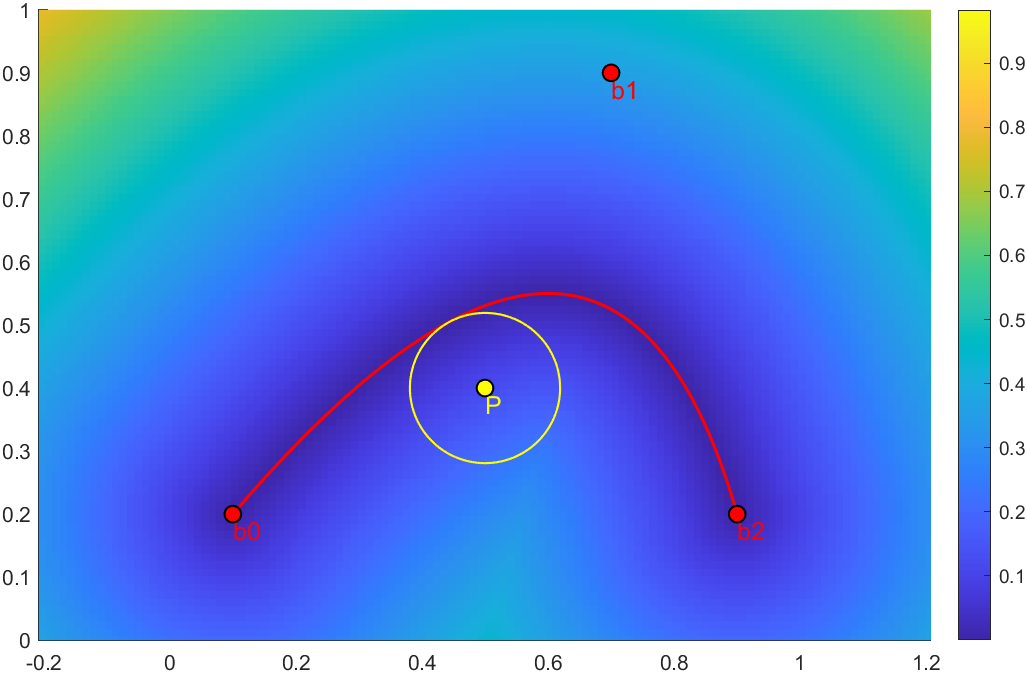
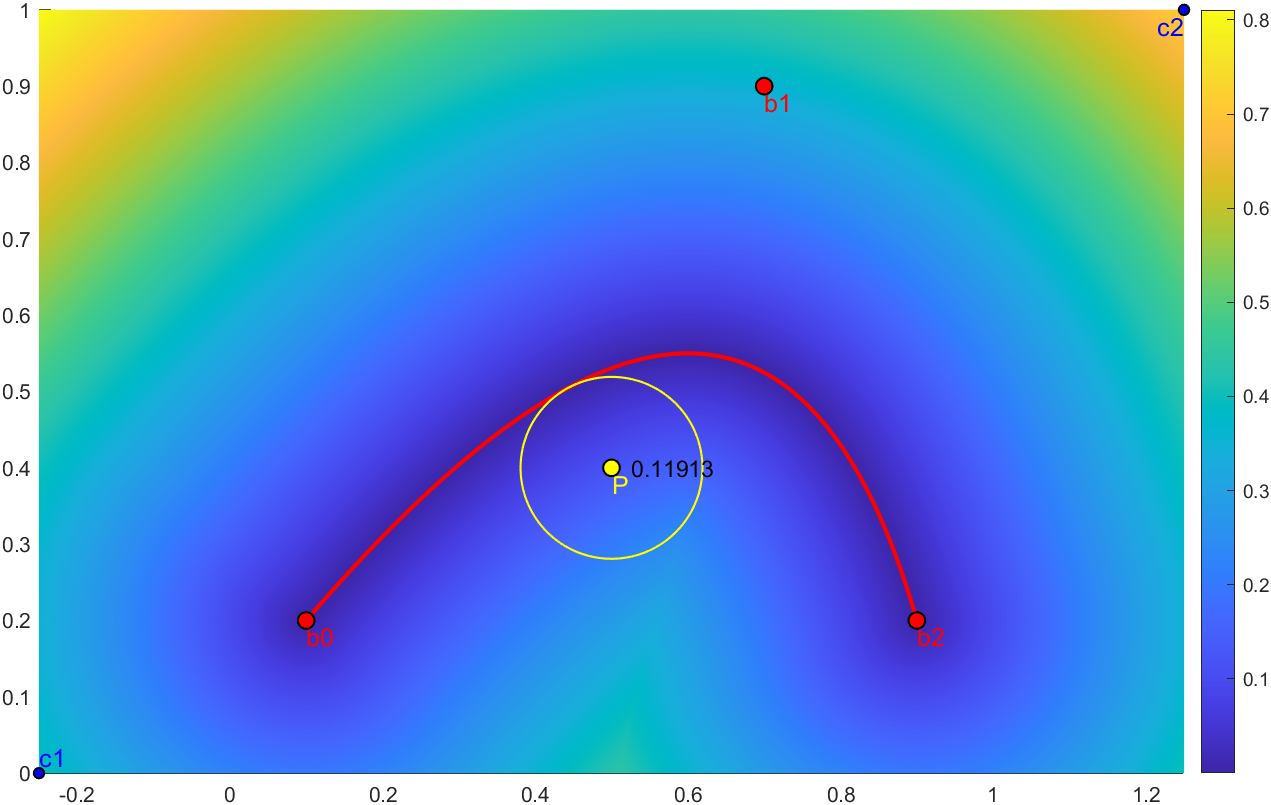
Updated readme

diff --git a/examples/example.m b/examples/example.m
@@ -11,56 +11,61 @@ cd = Segment(C,A,'b',2);
 Segment(A,Midpoint(B,C),'--')
 Segment(B,Midpoint(C,A),'--')
 Segment(C,Midpoint(A,B),'--')
-S=Midpoint('S',A,B,C,'k',7); % Barycenter of the triangle labelled S
+S=Midpoint('S',A,B,C,'k',7);        % Barycenter of the triangle labelled S
 
 PerpendicularBisector(A,B,':')
 PerpendicularBisector(B,C,':')
 PerpendicularBisector(C,A,':')
-[~,K] = Circle(A,B,C,'m--'); % Magenta dashed circumcircle of the triangle
+[~,K] = Circle(A,B,C,'m--');        % Magenta dashed circumcircle of the triangle
+Text(K,"K") % add text at position
 
 la = AngleBisector(A,B,C,':');
 lb = AngleBisector(B,C,A,':');
 lc = AngleBisector(C,A,B,':');
-Circle(Intersect('O',la,lb),ab,'c'); % (inscribed) circle touching segment AB
+Circle(Intersect('O',la,lb),ab,'c');% (inscribed) circle touching segment AB
 
 ma = PerpendicularLine(A,B,C,':');
 mb = PerpendicularLine(B,C,A,':');
 mc = PerpendicularLine(C,A,B,':');
 M = Intersect('M',ma,mb);
-Segment(M,K,'r')
+Segment(M,K,'r')                    % Euler line
 
-ylim([-0.2 0.6]); xlim([-.1 1.1]);
+ylim([-0.2 0.6]); xlim([-.1 1.1])
 
 %% Polygon Sphere trace
-clf; disp Polygon
+clf; disp 'Sphere Trace'
 
 % You can move, create, delete vertices of the following polygon:
-f = Polygon([-1 0;1 0;1 1;0.7 0.7;0.3 0.5;0 0.9;-0.5 0.3;-1 0.3],'b');
+f = Polygon([-1 0;1 0;1 1;0.7 0.7;0.3 0.5;0 0.9;-0.5 0.3;-1 0.3]);
 
-p0 = Point('p0',[-.8,1.0 ],'r');
-q0 = Point('q0',[.5 ,1.05],'r',5);
+p0 = Point('p0',[-.8,1.05],'r');    % ray start
+q0 = Point('q0',[.5 ,1.05],'r',5);  % ray 'direction'
 v0 = Eval((q0-p0)/Distance(p0,q0)); % Operators: point-point=vector, vector/scalar = vector
-
-Ray(p0,q0,'r',1.5);
+Ray(p0,v0,'r',1.5)
 
 p = p0; n=10; % Sphere tracing illustration:
 for i = 1:n
     d = Distance(p,f); % distance to polygon yields a dependent scalar value
     Circle(p,d,'Color',[i/n 1-i/n 0])
-    p = (p + v0*d)';      % vector*scalar=vector, point+vector=point
+    p = (p + v0*d)';   % vector*scalar=vector, point+vector=point, ' same as Eval
 end
 
-xlim([-1.5 1.3]); ylim([0 1.7]); 
+xlim([-1.5 1.3]); ylim([0 1.7])
 
 %% Image
-clf; disp Image
+clf; disp 'Curve & Image'
 b0 = Point('b0',[0.1 0.2],'r'); % draggable control points
 b1 = Point('b1',[0.7 0.9],'r'); % with given labels
 b2 = Point('b2',[0.9 0.2],'r');
 
 % parametric callback with t in [0,1] and dependent variables:
 fun = @(t,b0,b1,b2)  b0.*(1-t).^2 + 2*b1.*t.*(1-t) + b2.*t.^2;
-b = Curve(b0,b1,b2,fun,'r',2);  % A red quadratic Bézier curve
+Curve(b0,b1,b2,fun,'r',2);  % A red quadratic Bézier curve
+
+P = Point('P',[.5 .4],'y'); % dist2bezier takes complex values, need to convert:
+dist2bezierReal = @(P,A,B,C) dist2bezier(complex(P(1),P(2)),complex(A(1),A(2)),complex(B(1),B(2)),complex(C(1),C(2)));
+d = Scalar(P,b0,b1,b2,dist2bezierReal); % dependent scalar value
+Circle(P,d,'y'); Text(P,d)  % Tangent circle to a curve and radius as text
 
 c1 = Point('c1',[-.25 0],'MarkerSize',5); % adjustable corners
 c2 = Point('c2',[1.25 1],'MarkerSize',5); % for the image domain
@@ -71,10 +76,7 @@ Image(b0,b1,b2,@dist2bezier,c1,c2,Device='GPU',CallbackType='vectorize');
 % similar to arrayfun. Also accepts real inputs eg.: (x,y,b0,b1,b2) -> real.
 % There are limitations and performance considerations, see help for details.
 
-P = Point('P',[.5 .4],'y');
-Circle(P,b,'y');                 % Tangent circle to a curve
-
-colorbar; xlim([-.25 1.25]); 
+colorbar; xlim([-.25 1.25]); ylim([0 1]) 
 
 %% Intersect
 

diff --git a/examples/bez.m b/examples/bez.m
@@ -1,12 +1,12 @@
 
 %% Focal-directrix parabola to quadratic Bézier representation
-clf; tiledlayout(1,2); nexttile; g1 = Geomatplot;
+clf; tiledlayout(1,2,'Padding','tight'); nexttile
 
 p1 = Point('p1',[0 0.2]);
 p2 = Point('p2',[1 0.2]);
 f  = Point('f',[.6 .8]);
 
-Segment(p1,p2,'b-');
+Segment(p1,p2,'b-')
 
 e0 = PerpendicularBisector(f,p1,':');
 e1 = PerpendicularBisector(f,p2,':');
@@ -15,19 +15,19 @@ b2 = Intersect('b2',PerpendicularLine({p2,p1},':'),e1,'r');
 b1 = Intersect('b1',e0,e1,'r');
 
 fun = @(t,b0,b1,b2)  b0.*(1-t).^2 + 2*b1.*t.*(1-t) + b2.*t.^2;
-Curve(p1,p2,f ,@parabola,'b--');
-Curve(b0,b1,b2,fun      ,'r:');
+Curve(p1,p2,f ,@parabola,'b--')
+Curve(b0,b1,b2,fun      ,'r:')
 
 %% Quadratic Bézier to focal-directrix parabola representation
 b0 = b0.value; b1 = b1.value; b2 = b2.value;
-nexttile; cla; g2 = Geomatplot;
+nexttile; cla;
 
 b0 = Point('b0',b0,'r');
 b1 = Point('b1',b1,'r');
 b2 = Point('b2',b2,'r');
 
 a = (b0-b1)+(b2-b1);
-Vector(b1,b1+a,'--');
+Vector(b1,b1+a,'--')
 fb0 = Mirror(b0 + a, PerpendicularLine(b0,b1,':'), 'k',5,'LabelVisible','off');
 fb2 = Mirror(b2 + a, PerpendicularLine(b2,b1,':'), 'k',5,'LabelVisible','off');
 
@@ -35,9 +35,9 @@ f = Intersect({'F'}, Line(b0,fb0,':'), Line(b2,fb2,':'),'b');
 p1 = Mirror('p1',f,b0,b1,'b');
 p2 = Mirror('p2',f,b1,b2,'b');
 
-Segment(p1,p2,'b-');
-Curve(p1,p2,f ,@parabola,'b--');
-Curve(b0,b1,b2,fun      ,'r:');
+Segment(p1,p2,'b-')
+Curve(p1,p2,f ,@parabola,'b--')
+Curve(b0,b1,b2,fun      ,'r:')
 
 %% parabola
 function pt = parabola(t,p1,p2,f) % Eval parabola with directrix p1p2 and focus f at t column vector

diff --git a/README.md b/README.md
@@ -10,81 +10,96 @@ Geomatplot is a Matlab interactive plot library similar to Geogebra.
 
 ## Requires
 1. Image Processing Toolbox
-2. Mapping Toolbox (for intersection)
+2. Mapping Toolbox (only for some intersections)
+3. Parallel Computing Toolbox (only for faster Image rendering)
 
 ## Geogebra-like example
 ```matlab
-clf; g = Geomatplot; ylim([-0.2 0.6]); xlim([-.1 1.1]);
+clf; disp Triangle
+
 A = Point([0.0 0.0]);     % draggable point, automatically labelled A
 B = Point([1.0 0.0]);     % automatic labels are applied if no label is given
-C = Point([.6 .55]);
+C = Point([0.6 .55]);
 ab = Segment(A,B,'b',2);  % a blue segment from A and B
 bc = Segment(B,C,'b',2);  %         with LineWidth of 2
 cd = Segment(C,A,'b',2);
 
-Segment(A,Midpoint(B,C),'--');
-Segment(B,Midpoint(C,A),'--');
-Segment(C,Midpoint(A,B),'--');
-S=Midpoint('S',A,B,C,'k',7); % Barycenter of the triangle labelled S
+Segment(A,Midpoint(B,C),'--')
+Segment(B,Midpoint(C,A),'--')
+Segment(C,Midpoint(A,B),'--')
+S=Midpoint('S',A,B,C,'k',7);        % Barycenter of the triangle labelled S
 
-PerpendicularBisector(A,B,':');
-PerpendicularBisector(B,C,':');
-PerpendicularBisector(C,A,':');
-[~,K] = Circle(A,B,C,'m--'); % Magenta dashed circumcircle of the triangle
+PerpendicularBisector(A,B,':')
+PerpendicularBisector(B,C,':')
+PerpendicularBisector(C,A,':')
+[~,K] = Circle(A,B,C,'m--');        % Magenta dashed circumcircle of the triangle
+Text(K,"K") % add text at position
 
 la = AngleBisector(A,B,C,':');
 lb = AngleBisector(B,C,A,':');
 lc = AngleBisector(C,A,B,':');
-Circle(Intersect('O',la,lb),ab,'c'); % (inscribed) circle touching segment AB
+Circle(Intersect('O',la,lb),ab,'c');% (inscribed) circle touching segment AB
 
 ma = PerpendicularLine(A,B,C,':');
 mb = PerpendicularLine(B,C,A,':');
 mc = PerpendicularLine(C,A,B,':');
 M = Intersect('M',ma,mb);
-Segment(M,K,'r');
+Segment(M,K,'r')                    % Euler line
+
+ylim([-0.2 0.6]); xlim([-.1 1.1])
 ```
 ![Interactive Triangle Plot](examples/triangle.png "Interactive Triangle Plot")
 
 ## 2D sphere trace visualization
 
 ```matlab
-clf; g = Geomatplot; xlim([-1.5 1.3]); ylim([0 1.7]); disp Polygon
+clf; disp 'Sphere Trace'
 
 % You can move, create, delete vertices of the following polygon:
-f = Polygon([-1 0;1 0;1 1;0.7 0.7;0.3 0.5;0 0.9;-0.5 0.3;-1 0.3],'b');
+f = Polygon([-1 0;1 0;1 1;0.7 0.7;0.3 0.5;0 0.9;-0.5 0.3;-1 0.3]);
 
-p0 = Point('p0',[-.8,1.0 ],'r');
-q0 = Point('q0',[.5 ,1.05],'r',5);
-v0 = (q0-p0)/Distance(p0,q0); % Operators: point-point=vector, vector/scalar = vector
-Ray(p0,q0,'r',1.5);
+p0 = Point('p0',[-.8,1.05],'r');    % ray start
+q0 = Point('q0',[.5 ,1.05],'r',5);  % ray 'direction'
+v0 = Eval((q0-p0)/Distance(p0,q0)); % Operators: point-point=vector, vector/scalar = vector
+Ray(p0,v0,'r',1.5)
 
 p = p0; n=10; % Sphere tracing illustration:
 for i = 1:n
     d = Distance(p,f); % distance to polygon yields a dependent scalar value
-    Circle(p,d,'Color',[i/n 1-i/n 0]);
-    p = p + v0*d;      % vector*scalar=vector, point+vector=point
+    Circle(p,d,'Color',[i/n 1-i/n 0])
+    p = (p + v0*d)';   % vector*scalar=vector, point+vector=point, ' same as Eval
 end
+
+xlim([-1.5 1.3]); ylim([0 1.7])
 ```
 ![Interactive Sphere Trace Plot](examples/spheretrace.png "Interactive Sphere Trace Plot")
 
 ## Parametric curve and 2D function visualization
 ```matlab
-clf; g = Geomatplot; disp Image
+clf; disp 'Curve & Image'
 b0 = Point('b0',[0.1 0.2],'r'); % draggable control points
 b1 = Point('b1',[0.7 0.9],'r'); % with given labels
 b2 = Point('b2',[0.9 0.2],'r');
-c1 = Point('c1',[-.5 0],'k','MarkerSize',5); % adjustable corner
-c2 = Point('c2',[1.5 1],'k','MarkerSize',5); %   for the image
 
 % parametric callback with t in [0,1] and dependent variables:
-bt = @(t,b0,b1,b2)  b0.*(1-t).^2 + 2*b1.*t.*(1-t) + b2.*t.^2;
-b = Curve(b0,b1,b2,bt,'r',2); % A red quadratic Bézier curve
+fun = @(t,b0,b1,b2)  b0.*(1-t).^2 + 2*b1.*t.*(1-t) + b2.*t.^2;
+Curve(b0,b1,b2,fun,'r',2);  % A red quadratic Bézier curve
 
-Image(b0,b1,b2,@dist2bezier,c1,c2); colorbar;
-% where 'dist2bezier' is a (x,y,b0,b1,b2) -> real function
+P = Point('P',[.5 .4],'y'); % dist2bezier takes complex values, need to convert:
+dist2bezierReal = @(P,A,B,C) dist2bezier(complex(P(1),P(2)),complex(A(1),A(2)),complex(B(1),B(2)),complex(C(1),C(2)));
+d = Scalar(P,b0,b1,b2,dist2bezierReal); % dependent scalar value
+Circle(P,d,'y'); Text(P,d)  % Tangent circle to a curve and radius as text
 
-P = Point('P',[.5 .4],'y');
-Circle(P,b,'y');
+c1 = Point('c1',[-.25 0],'MarkerSize',5); % adjustable corners
+c2 = Point('c2',[1.25 1],'MarkerSize',5); % for the image domain
+
+Image(b0,b1,b2,@dist2bezier,c1,c2,Device='GPU',CallbackType='vectorize');
+% Where 'dist2bezier' is a (z,b0,b1,b2) -> real function with complex inputs.
+% Image supports CPU and GPU execution with or without input vectorization 
+% similar to arrayfun. Also accepts real inputs eg.: (x,y,b0,b1,b2) -> real.
+% There are limitations and performance considerations, see help for details.
+
+colorbar; xlim([-.25 1.25]); ylim([0 1]) 
 ```
 ![Interactive Image Plot](examples/image.png "Interactive Image Plot")
 
@@ -92,19 +107,20 @@ Circle(P,b,'y');
 
 From the previous example, `disp(g)` produces the output below. Dependent objects (they start with a 'd') measure their own callback excecution time, while the movable points measure the time to execute all objects that depend on it. While dragging, render resolutions are lowered to increase responsiveness.
 ```
->> disp(g)
-Geomatplot with 6 movable and 4 dependent plots:
-   label : type    runtime    mean pos   |   labels : callback                                         
-    'b0' : mpoint  258.03ms [0.08 0.21]  |          :                                                  
-    'b1' : mpoint  248.32ms [0.64 0.91]  |          :                                                  
-    'b2' : mpoint  256.81ms [0.94 0.18]  |          :                                                  
-    'c1' : mpoint  234.01ms [-0.50 0.00] |          :                                                  
-    'c2' : mpoint  234.47ms [1.48 0.99]  |          :                                                  
-     'P' : mpoint   0.54ms  [0.51 0.40]  |          :                                                  
-'curve1' : dcurve   0.43ms  [0.55 0.43]  | b0,b1,b2 : Curve/internalcallback                           
-'image1' : dimage  234.01ms [0.49 0.49]  | b0,b1,b2 : Image/internalcallback                           
-     'b' : dscalar  0.24ms     [0.14     | P,curve1 : dist_point2polyline                              
-     'a' : dcircle  0.30ms  [0.51 0.40]  |      P,b : @(t,c,r)c.value+r.value*[cos(2*pi*t),sin(2*pi*t)]
+>> Geomatplot.summary
+Geomatplot with 6 movable and 5 dependent plots:
+   label : type    move/stop time    value/mean pos    | callback                                          
+    'b0' : mpoint  31.91ms/38.89ms     (0.1,0.356)     |                                                   
+    'b1' : mpoint  15.30ms/33.11ms    (0.642,0.93)     |                                                   
+    'b2' : mpoint  19.73ms/27.82ms    (0.914,0.276)    |                                                   
+     'P' : mpoint   1.27ms/1.30ms     (0.518,0.398)    |                                                   
+    'c1' : mpoint   0.00ms/0.00ms       (-0.25,0)      |                                                   
+    'c2' : mpoint   0.00ms/0.00ms       (1.25,1)       |                                                   
+'curve1' : dcurve   0.47ms/0.44ms     [0.552,0.52]     | Curve/internalcallback(b0,b1,b2)                  
+ 'scal1' : dscalar  0.23ms/0.21ms        0.22167       | Scalar/internalcallback(P,b0,b1,b2)               
+ 'circ1' : dcircle  0.28ms/0.31ms  c=(0.52,0.4) r=0.22 | f(P,scal1) f=@(t,c,r)c+r*[cos(2*pi*t),sin(2*pi*t)]
+  'txt1' : dtext    0.47ms/0.37ms     "   0.22167"     | Text/text_varPos_printDrawing(P,scal1)            
+'image1' : dimage  19.58ms/34.31ms      [0.5,0.5]      | Image/img_gpu_cplx_arrayfun(b0,b1,b2)             
   Methods, Events, Superclasses
 ```
 
